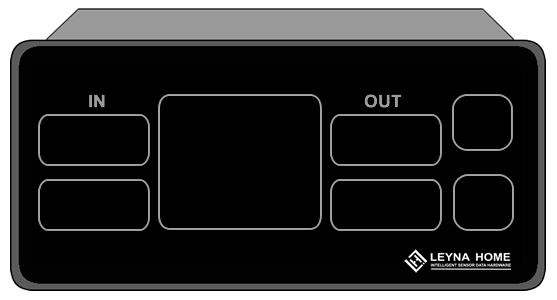
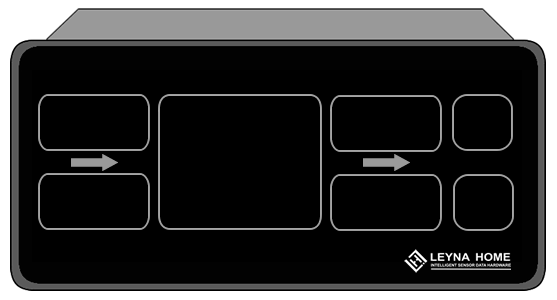
Actualiza posiciones panel

diff --git a/src/components/iot-panel-card.tsx b/src/components/iot-panel-card.tsx
@@ -88,6 +88,11 @@ type LegacyPanelDisplayConfig = {
   relayLabels: Record<string, string>;
 };
 
+type LegacyPanelPersistedConfig = LegacyPanelDisplayConfig & {
+  selectedSkin?: LegacyPanelSkinId;
+  selectedPhotoId?: string;
+};
+
 const modeOptions = [
   { value: 'cool', label: 'Cool' },
   { value: 'heat', label: 'Heat' },
@@ -218,6 +223,18 @@ function normalizeLegacyPanelDisplayConfig(value: unknown): LegacyPanelDisplayCo
     humidityUnit,
     setpointUnit,
     relayLabels,
+  };
+}
+
+function buildLegacyPanelPersistedConfig(
+  displayConfig: LegacyPanelDisplayConfig,
+  selectedSkin: LegacyPanelSkinId,
+  selectedPhotoId: string,
+): LegacyPanelPersistedConfig {
+  return {
+    ...displayConfig,
+    selectedSkin,
+    selectedPhotoId,
   };
 }
 
@@ -1477,6 +1494,7 @@ function LegacyThermostatPanel({
   const [displayConfigOpen, setDisplayConfigOpen] = useState(false);
   const [savingDisplayConfig, setSavingDisplayConfig] = useState(false);
   const [displayConfig, setDisplayConfig] = useState<LegacyPanelDisplayConfig>(() => defaultLegacyPanelDisplayConfig());
+  const panelConfigHydratedRef = useRef(false);
   const displayContainerRef = useRef<HTMLDivElement | null>(null);
   const [displayWidth, setDisplayWidth] = useState<number>(557);
   const skinStorageKey = `iot:legacy-skin:${asset.id}`;
@@ -1601,30 +1619,51 @@ function LegacyThermostatPanel({
 
   useEffect(() => {
     if (typeof window === 'undefined') return;
+    panelConfigHydratedRef.current = false;
+
     const savedSkin = window.localStorage.getItem(skinStorageKey);
     const savedPhoto = window.localStorage.getItem(photoStorageKey);
     const savedDisplayConfig = window.localStorage.getItem(displayConfigStorageKey);
+    const remotePanelConfig = isPlainObject(asset.iot?.panelDisplayConfig)
+      ? asset.iot.panelDisplayConfig as Record<string, unknown>
+      : null;
 
-    setActiveSkin(isLegacyPanelSkin(savedSkin) ? savedSkin : 'lh1t');
+    const remoteSelectedSkinRaw = typeof remotePanelConfig?.selectedSkin === 'string'
+      ? remotePanelConfig.selectedSkin
+      : null;
+    const remoteSelectedSkin: LegacyPanelSkinId | null = isLegacyPanelSkin(remoteSelectedSkinRaw)
+      ? remoteSelectedSkinRaw
+      : null;
+
+    const remoteSelectedPhotoRaw = typeof remotePanelConfig?.selectedPhotoId === 'string'
+      ? remotePanelConfig.selectedPhotoId
+      : null;
+    const remoteSelectedPhoto = remoteSelectedPhotoRaw
+      && legacyPanelPhotoOptions.some((option) => option.id === remoteSelectedPhotoRaw)
+      ? remoteSelectedPhotoRaw
+      : null;
+
+    setActiveSkin(remoteSelectedSkin ?? (isLegacyPanelSkin(savedSkin) ? savedSkin : 'lh1t'));
     setSelectedPhotoId(
-      legacyPanelPhotoOptions.some((option) => option.id === savedPhoto)
+      remoteSelectedPhoto
+        ?? (legacyPanelPhotoOptions.some((option) => option.id === savedPhoto)
         ? String(savedPhoto)
-        : (legacyPanelPhotoOptions[0]?.id ?? 'compresor'),
+        : (legacyPanelPhotoOptions[0]?.id ?? 'compresor')),
     );
     if (asset.iot?.panelDisplayConfig) {
       setDisplayConfig(normalizeLegacyPanelDisplayConfig(asset.iot.panelDisplayConfig));
-      return;
-    }
-    if (savedDisplayConfig) {
+    } else if (savedDisplayConfig) {
       try {
         const parsedConfig = JSON.parse(savedDisplayConfig);
         setDisplayConfig(normalizeLegacyPanelDisplayConfig(parsedConfig));
       } catch {
         setDisplayConfig(defaultLegacyPanelDisplayConfig());
       }
-      return;
+    } else {
+      setDisplayConfig(defaultLegacyPanelDisplayConfig());
     }
-    setDisplayConfig(defaultLegacyPanelDisplayConfig());
+
+    panelConfigHydratedRef.current = true;
   }, [asset.iot?.panelDisplayConfig, displayConfigStorageKey, photoStorageKey, skinStorageKey]);
 
   useEffect(() => {
@@ -1642,6 +1681,26 @@ function LegacyThermostatPanel({
     window.localStorage.setItem(displayConfigStorageKey, JSON.stringify(displayConfig));
   }, [displayConfig, displayConfigStorageKey]);
 
+  useEffect(() => {
+    if (!panelConfigHydratedRef.current) return;
+    if (!firestore || !organizationId) return;
+
+    const timeoutId = window.setTimeout(() => {
+      const assetRef = doc(firestore, orgDocPath(organizationId, 'assets', asset.id));
+      void setDoc(assetRef, {
+        iot: {
+          panelDisplayConfig: {
+            selectedSkin: activeSkin,
+            selectedPhotoId,
+          },
+          panelDisplayConfigUpdatedAt: serverTimestamp(),
+        },
+      }, { merge: true });
+    }, 250);
+
+    return () => window.clearTimeout(timeoutId);
+  }, [activeSkin, selectedPhotoId, asset.id, firestore, organizationId]);
+
   const cycleSkin = () => {
     setActiveSkin((currentSkin) => nextLegacyPanelSkin(currentSkin));
   };
@@ -1657,7 +1716,7 @@ function LegacyThermostatPanel({
       const assetRef = doc(firestore, orgDocPath(organizationId, 'assets', asset.id));
       await setDoc(assetRef, {
         iot: {
-          panelDisplayConfig: displayConfig,
+          panelDisplayConfig: buildLegacyPanelPersistedConfig(displayConfig, activeSkin, selectedPhotoId),
           panelDisplayConfigUpdatedAt: serverTimestamp(),
         },
       }, { merge: true });

diff --git a/src/lib/firebase/models.ts b/src/lib/firebase/models.ts
@@ -293,6 +293,8 @@ export interface AssetIotPanelDisplayConfig {
   humidityUnit?: string;
   setpointUnit?: string;
   relayLabels?: Record<string, string>;
+  selectedSkin?: string;
+  selectedPhotoId?: string;
 }
 
 export interface AssetIotConfig {
